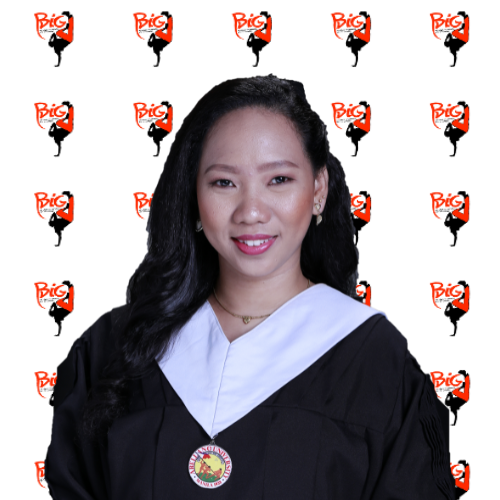
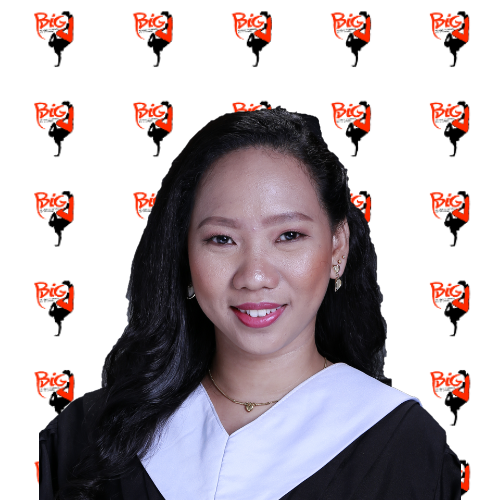
branch

diff --git a/assets/css/styles.css b/assets/css/styles.css
@@ -598,3 +598,59 @@ header-image {
 }
 
 /* Core Values */
+
+
+/* Branches Tab */
+.branchtab .branchinfo {
+  background-color: var(--surface-color);
+  box-shadow: 0px 2px 15px rgba(0, 0, 0, 0.1);
+  position: relative;
+  border-radius: 5px;
+  transition: 0.5s;
+  padding: 25px;
+  margin-bottom: 25px;
+  height: 225px;
+}
+
+@media (max-width: 468px) {
+  .branchtab .branchinfo {
+    flex-direction: column;
+    justify-content: center !important;
+    align-items: center !important;
+  }
+}
+
+.branchpic {
+  overflow: hidden;
+  width: 200px;
+  flex-shrink: 0;
+}
+
+.branchtab .branchinfo .branchpic img {
+  transition: ease-in-out 0.3s;
+}
+
+.branchtab .branchinfo:hover {
+  transform: translateY(-10px);
+}
+
+.branchtab .branchinfo .branchcontent {
+  padding-left: 30px;
+}
+
+@media (max-width: 468px) {
+  .branchtab .branchinfo .branchcontent {
+    padding: 30px 0 0 0;
+    text-align: center;
+  }
+}
+
+.branchtab .branchinfo h4 {
+  font-weight: 700;
+  margin-bottom: 5px;
+  font-size: 20px;
+}
+.branchtab .branchinfo p {
+  margin: 10px 0 10px 0;
+  font-size: 14px;
+}

diff --git a/branches.php b/branches.php
@@ -1,0 +1,80 @@
+<!doctype html>
+
+<html>
+
+<?php include 'main/head.php'; ?>
+
+<body>
+  <!-- Navbar -->
+  <?php include 'main/nav.php'; ?>
+  <!-- End of Navbar -->
+
+  <!-- Main -->
+
+  <!-- Sangandaan -->
+  <section id="branchesgeneral" class="about section">
+    <div class="container-md">
+      <div class="row gy-4">
+        <div id="fbframe" class="col-sm ms-5" data-aos="fade-up" data-aos-delay="200" data-aos-once=“true”>
+          <iframe
+            src="https://www.facebook.com/plugins/page.php?href=https%3A%2F%2Fwww.facebook.com%2FGSBigJOfficial&tabs=timeline&width=500&height=750&small_header=false&adapt_container_width=true&hide_cover=false&show_facepile=false&appId"
+            width="500" height="750" style="border:none;overflow:hidden" scrolling="no" frameborder="0"
+            allowfullscreen="true"
+            allow="autoplay; clipboard-write; encrypted-media; picture-in-picture; web-share"></iframe>
+        </div>
+
+        <div class="col content branchtab" data-aos="fade-up" data-aos-once=“true”>
+          <div class="row position-relative">
+            <div class="row branchinfo">
+              <div class="col-lg-4 branchpic">
+                <img src="assets/img/Logos/181625642_323031792500178_7353910229273216180_n.png"
+                  class="rounded img-thumbnail" alt="">
+              </div>
+              <div class="col branchcontent">
+                <h4>Caloocan (South)</h4>
+                <p>Information here.</p>
+                <a href="#" class="read-more stretched-link">Learn More <i class="bi bi-arrow-right"></i></a>
+              </div>
+            </div>
+
+            <div class="row branchinfo">
+              <div class="col-lg-4 branchpic">
+                <img src="assets/img/Logos/181625642_323031792500178_7353910229273216180_n.png"
+                  class="rounded img-thumbnail" alt="">
+              </div>
+              <div class="col branchcontent">
+                <h4>Caloocan (North)</h4>
+                <p>Information here.</p>
+                <a href="#" class="read-more stretched-link">Learn More <i class="bi bi-arrow-right"></i></a>
+              </div>
+            </div>
+
+            <div class="row branchinfo">
+              <div class="col-lg-4 branchpic">
+                <img src="assets/img/Logos/181625642_323031792500178_7353910229273216180_n.png"
+                  class="rounded img-thumbnail" alt="">
+              </div>
+              <div class="col branchcontent">
+                <h4>Cogeo</h4>
+                <p>Information here.</p>
+                <a href="#" class="read-more stretched-link">Learn More <i class="bi bi-arrow-right"></i></a>
+              </div>
+            </div>
+
+            
+
+          </div>
+        </div>
+      </div>
+    </div>
+  </section>
+  <!-- End of Sangandaan -->
+  <hr class="hrstyle">
+
+  <!-- Footer -->
+  <?php include 'main/footer.php'; ?>
+  <!-- End of Footer-->
+
+</body>
+
+</html>

diff --git a/index.php b/index.php
@@ -502,7 +502,7 @@
       
               <div class="col-lg-6" data-aos="fade-up" data-aos-once=“true”>
                 <div class="team-member d-flex align-items-start">
-                  <div class="pic"><img src="assets/img/Logos/181625642_323031792500178_7353910229273216180_n.png"
+                  <div class="pic"><img src="assets/img/Team/ERIZA QUIMPO.png"
                       class="img-fluid" alt=""></div>
                   <div class="member-info">
                     <h4>Eraiza Quimpo</h4>
